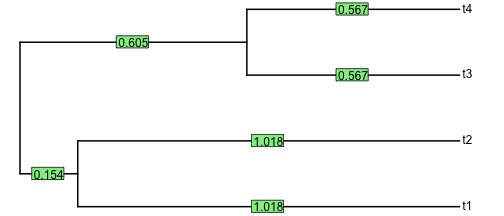
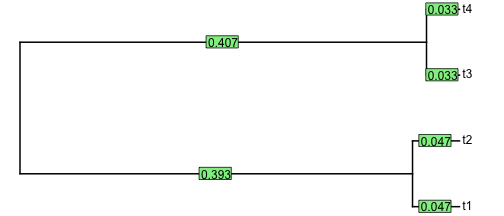
updating errorrs

Changed region(s): [[0.0595, 0.6111, 0.9226, 1.0], [0.3869, 0.0, 0.9226, 0.3889], [0.2083, 0.1389, 0.2976, 0.25]]

diff --git a/GMcourse/Lectures/06-ShapeStatistics1.html b/GMcourse/Lectures/06-ShapeStatistics1.html
@@ -266,8 +266,8 @@ PCA$rot[, 1:5]
 ```
 
 
-<div class="datatables html-widget html-fill-item-overflow-hidden html-fill-item" id="htmlwidget-25fe77312af21979f311" style="width:100%;height:auto;"></div>
-<script type="application/json" data-for="htmlwidget-25fe77312af21979f311">{"x":{"filter":"none","vertical":false,"fillContainer":false,"data":[["1.X","1.Y","2.X","2.Y","3.X","3.Y","4.X","4.Y","5.X","5.Y","6.X","6.Y","7.X","7.Y","8.X","8.Y","9.X","9.Y","10.X","10.Y","11.X","11.Y","12.X","12.Y"],[-0.18519,0.05405,-0.25751,0.12104,0.24555,0.08671,0.01913,0.01574,0.03013,-0.06,0.03942,-0.07298,-0.03292,-0.15883,-0.07436,-0.02267,-0.1294,0.14563,-0.14615,0.04686,0.78142,-0.05272,-0.29012,-0.10285],[0.44578,0.26015,0.14487,0.35368,0.06079,0.15116,-0.00471,-0.10675,-0.04475,-0.10706,-0.02427,-0.16916,-0.14499,-0.08201,-0.0491,-0.01583,0.0163,0.10257,0.07706,0.13217,-0.18989,0.04808,-0.28709,-0.56701],[0.22986,-0.08275,0.21506,0.10056,0.32681,0.00228,-0.20322,0.35931,-0.19877,0.15439,-0.17122,0.00981,-0.21542,-0.18189,0.06254,-0.16576,0.18179,-0.23899,0.07886,-0.13614,0.01087,-0.20317,-0.31717,0.38235],[-0.26247,0.11272,-0.01087,0.46841,0.47658,-0.04908,-0.11434,-0.00444,-0.05717,0.12899,0.1062,0.0582,0.08944,0.01527,-0.1435,-0.17252,-0.17443,-0.1315,-0.16718,-0.21664,-0.17314,-0.06654,0.43089,-0.14288],[-0.16719,0.22104,0.02176,-0.25447,0.44786,0.02916,-0.0437,-0.44113,-0.16144,-0.22846,-0.05394,0.14802,0.0188,0.27939,-0.08595,0.08478,0.38216,0.11626,-0.05794,0.12139,-0.12552,-0.17414,-0.1749,0.09816]],"container":"<table class=\"display\">\n  <thead>\n    <tr>\n      <th> <\/th>\n      <th>Comp1<\/th>\n      <th>Comp2<\/th>\n      <th>Comp3<\/th>\n      <th>Comp4<\/th>\n      <th>Comp5<\/th>\n    <\/tr>\n  <\/thead>\n<\/table>","options":{"pageLength":3,"columnDefs":[{"className":"dt-right","targets":[1,2,3,4,5]},{"orderable":false,"targets":0}],"order":[],"autoWidth":false,"orderClasses":false,"lengthMenu":[3,10,25,50,100]}},"evals":[],"jsHooks":[]}</script>
+<div class="datatables html-widget html-fill-item-overflow-hidden html-fill-item" id="htmlwidget-34759a26d0ae1d4e3ba7" style="width:100%;height:auto;"></div>
+<script type="application/json" data-for="htmlwidget-34759a26d0ae1d4e3ba7">{"x":{"filter":"none","vertical":false,"fillContainer":false,"data":[["1.X","1.Y","2.X","2.Y","3.X","3.Y","4.X","4.Y","5.X","5.Y","6.X","6.Y","7.X","7.Y","8.X","8.Y","9.X","9.Y","10.X","10.Y","11.X","11.Y","12.X","12.Y"],[-0.18519,0.05405,-0.25751,0.12104,0.24555,0.08671,0.01913,0.01574,0.03013,-0.06,0.03942,-0.07298,-0.03292,-0.15883,-0.07436,-0.02267,-0.1294,0.14563,-0.14615,0.04686,0.78142,-0.05272,-0.29012,-0.10285],[0.44578,0.26015,0.14487,0.35368,0.06079,0.15116,-0.00471,-0.10675,-0.04475,-0.10706,-0.02427,-0.16916,-0.14499,-0.08201,-0.0491,-0.01583,0.0163,0.10257,0.07706,0.13217,-0.18989,0.04808,-0.28709,-0.56701],[0.22986,-0.08275,0.21506,0.10056,0.32681,0.00228,-0.20322,0.35931,-0.19877,0.15439,-0.17122,0.00981,-0.21542,-0.18189,0.06254,-0.16576,0.18179,-0.23899,0.07886,-0.13614,0.01087,-0.20317,-0.31717,0.38235],[-0.26247,0.11272,-0.01087,0.46841,0.47658,-0.04908,-0.11434,-0.00444,-0.05717,0.12899,0.1062,0.0582,0.08944,0.01527,-0.1435,-0.17252,-0.17443,-0.1315,-0.16718,-0.21664,-0.17314,-0.06654,0.43089,-0.14288],[-0.16719,0.22104,0.02176,-0.25447,0.44786,0.02916,-0.0437,-0.44113,-0.16144,-0.22846,-0.05394,0.14802,0.0188,0.27939,-0.08595,0.08478,0.38216,0.11626,-0.05794,0.12139,-0.12552,-0.17414,-0.1749,0.09816]],"container":"<table class=\"display\">\n  <thead>\n    <tr>\n      <th> <\/th>\n      <th>Comp1<\/th>\n      <th>Comp2<\/th>\n      <th>Comp3<\/th>\n      <th>Comp4<\/th>\n      <th>Comp5<\/th>\n    <\/tr>\n  <\/thead>\n<\/table>","options":{"pageLength":3,"columnDefs":[{"className":"dt-right","targets":[1,2,3,4,5]},{"orderable":false,"targets":0}],"order":[],"autoWidth":false,"orderClasses":false,"lengthMenu":[3,10,25,50,100]}},"evals":[],"jsHooks":[]}</script>
 ]
 
 ---
@@ -1159,10 +1159,10 @@ is an analysis that finds phylogenetically aligned components of the data (most 
 
 ```
 ##       t1    t2    t3    t4
-## t1 1.172 0.154 0.000 0.000
-## t2 0.154 1.172 0.000 0.000
-## t3 0.000 0.000 1.172 0.605
-## t4 0.000 0.000 0.605 1.172
+## t1 0.440 0.393 0.000 0.000
+## t2 0.393 0.440 0.000 0.000
+## t3 0.000 0.000 0.440 0.407
+## t4 0.000 0.000 0.407 0.440
 ```
 ]
 
@@ -1528,7 +1528,7 @@ All statistical steps take the form, `\(\mathbf{A}^T\mathbf{Z}\)`, but what `\(\
 |:--|---|---|-----|
 |1.| `\(\tilde{\mathbf{X}}(\tilde{\mathbf{X}}^T\tilde{\mathbf{X}})^{-1}\)`| `\((\tilde{\mathbf{X}}^T\tilde{\mathbf{X}})^{-1}\tilde{\mathbf{X}}^T\)` | Obtain coefficients that estimate expected change in `\(\mathbf{Z}\)` associated with the parameters of `\(\mathbf{X}\)`, also accounting for the non-independence of observations.|
 |2.| `\(\mathbf{H} = \mathbf{X} (\tilde{\mathbf{X}}^T\tilde{\mathbf{X}})^{-1}\tilde{\mathbf{X}}^T\)` | `\(\mathbf{H} = \mathbf{X} (\tilde{\mathbf{X}}^T\tilde{\mathbf{X}})^{-1}\tilde{\mathbf{X}}^T\)`| Obtain fitted values.  We can also obtain **.blue[GLS-centered] residuals** as `\(\mathbf{E} = \mathbf{Z} -\mathbf{HZ} = (\mathbf{I} - \mathbf{H})\mathbf{Z}\)`.|
-|3.| `\(\tilde{\mathbf{H}} = \mathbf{\mathbf{X}} (\tilde{\mathbf{X}}^T\tilde{\mathbf{X}})^{-1}\tilde{\mathbf{X}}^T\)` | `\(\tilde{\mathbf{H}} = \tilde{\mathbf{X}} (\tilde{\mathbf{X}}^T\tilde{\mathbf{X}})^{-1}\tilde{\mathbf{X}}^T\)`| Obtain **.blue[GLS-transformed] residuals** as `\(\tilde{\mathbf{E}} = \mathbf{\tilde{Z}} -\mathbf{\tilde{H}\tilde{Z}} = (\mathbf{ I} - \mathbf{\tilde{H}})\mathbf{\tilde{Z}}\)`. .red[The importance of this step is to simply make sure that residuals are transformed for calculating covariance matrices.  This is a bit esoteric, but it will hopefiully make some algebraic sense in a moment.] `\(^1\)`.  
+|3.| `\(\tilde{\mathbf{H}} = \mathbf{\mathbf{X}} (\tilde{\mathbf{X}}^T\tilde{\mathbf{X}})^{-1}\tilde{\mathbf{X}}^T\)` | `\(\tilde{\mathbf{H}} = \tilde{\mathbf{X}} (\tilde{\mathbf{X}}^T\tilde{\mathbf{X}})^{-1}\tilde{\mathbf{X}}^T\)`| Obtain **.blue[GLS-transformed] residuals** as `\(\tilde{\mathbf{E}} = \mathbf{\tilde{Z}} -\mathbf{\tilde{H}\tilde{Z}} = (\mathbf{ I} - \mathbf{\tilde{H}})\mathbf{\tilde{Z}}\)`. .red[The importance of this step is to simply make sure that residuals are transformed for calculating covariance matrices.  This is a bit esoteric, but it will hopefully make some algebraic sense in a moment.] `\(^1\)`.  
 
 .footnote[1. A more extensive explanation of the calculation of GLS-estimated covariance matrices is provided in the Appendix.]
 

diff --git a/GMcourse/Lectures/02-LinearAlgebra.html b/GMcourse/Lectures/02-LinearAlgebra.html
@@ -984,7 +984,7 @@ $$\mathbf{X}^T\mathbf{Z} = \mathbf{X}^T\mathbf{X}\mathbf{\beta } $$
 `$$\left( \mathbf{X}^T\mathbf{X} \right)^{-1} \mathbf{X}^T\mathbf{Z} = 
 \mathbf{I}\mathbf{\beta } $$
 
-`$$\hat{\mathbf{\beta }}=\left ( \mathbf{X}^{T} \mathbf{X}\right )^{-1}\left ( \mathbf{X}^{T} \mathbf{Y}\right )$$`
+`$$\hat{\mathbf{\beta }}=\left ( \mathbf{X}^{T} \mathbf{X}\right )^{-1}\left ( \mathbf{X}^{T} \mathbf{Z}\right )$$`
 The `\(\hat{ }\)` reminds us that this is a matrix of estimate values.
 
 Notice that this resembles what we did before, 

diff --git a/GMcourse/lectures.html b/GMcourse/lectures.html
@@ -321,6 +321,10 @@ Data</a></p>
 <p><a
 href="https://geomorphR.github.io/GMcourse/Lectures/14-Prospectus.html">14-Future
 Directions and Prospectus</a></p>
+<hr />
+<p><a
+href="https://geomorphR.github.io/GMcourse/Lectures/Appendix.html">Appendix
+(for shape statistics)</a></p>
 
 
 
